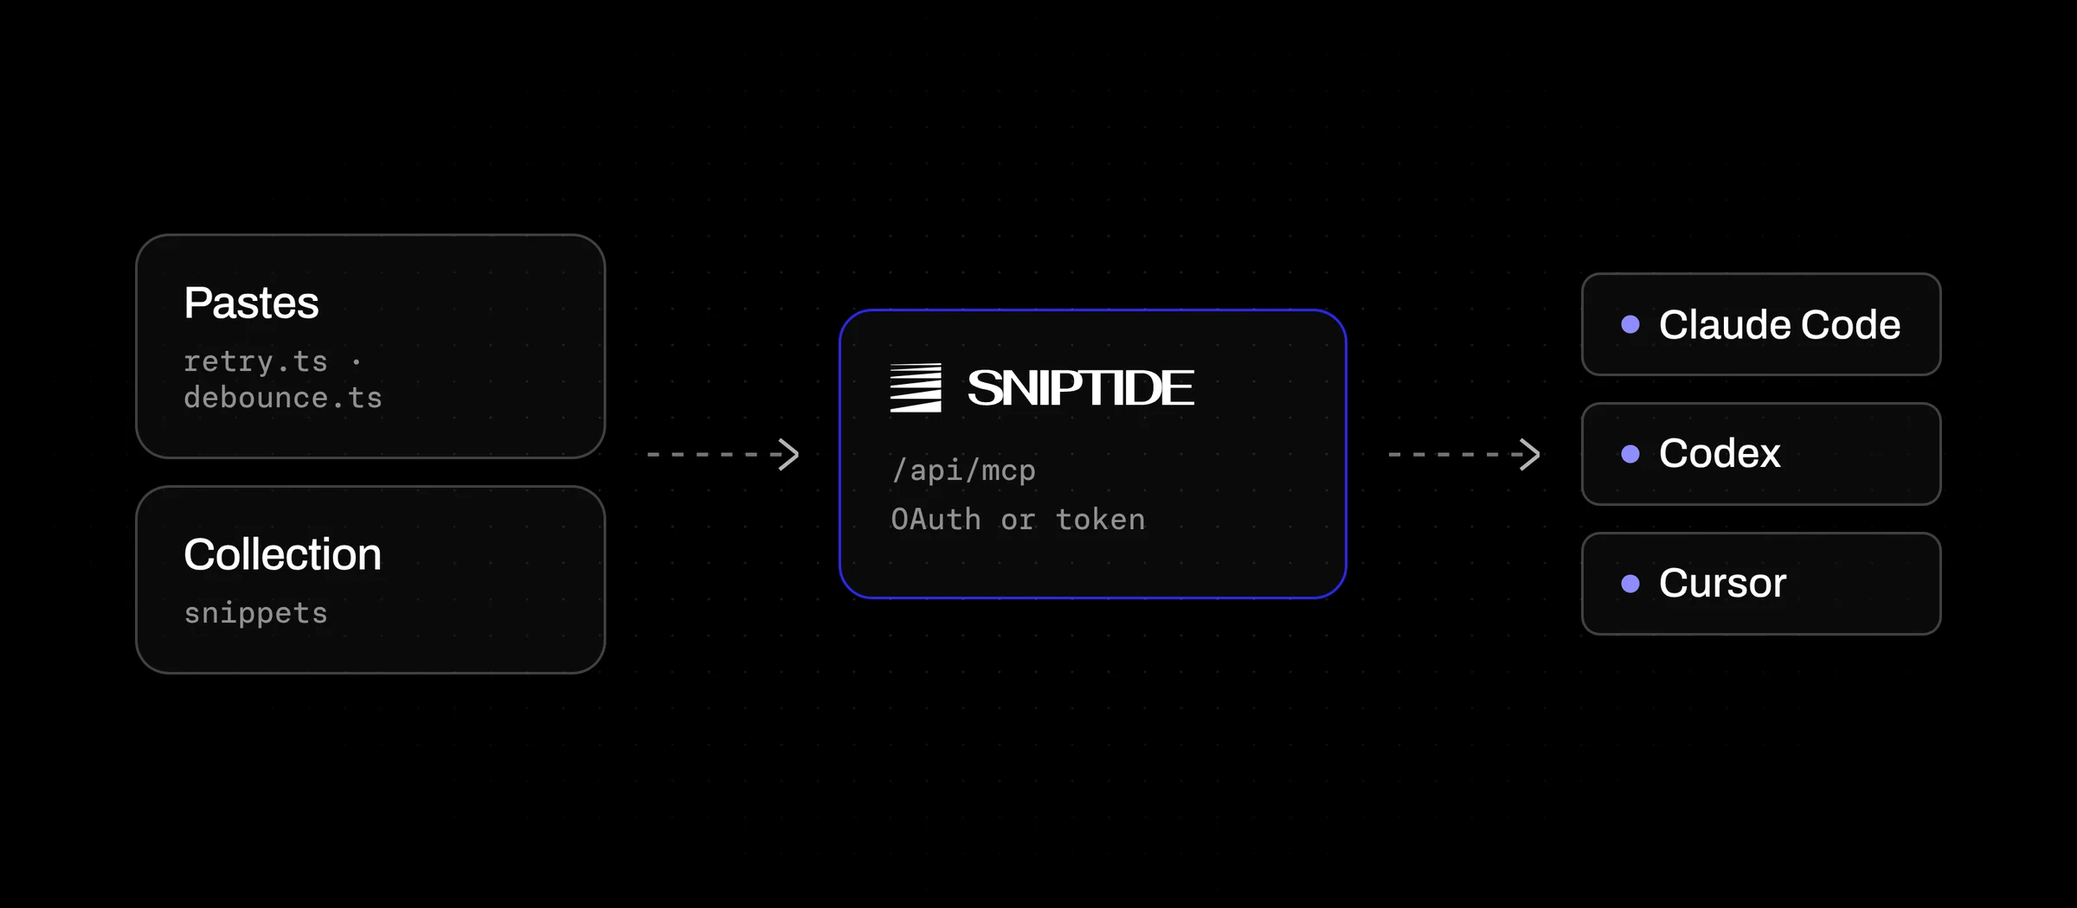
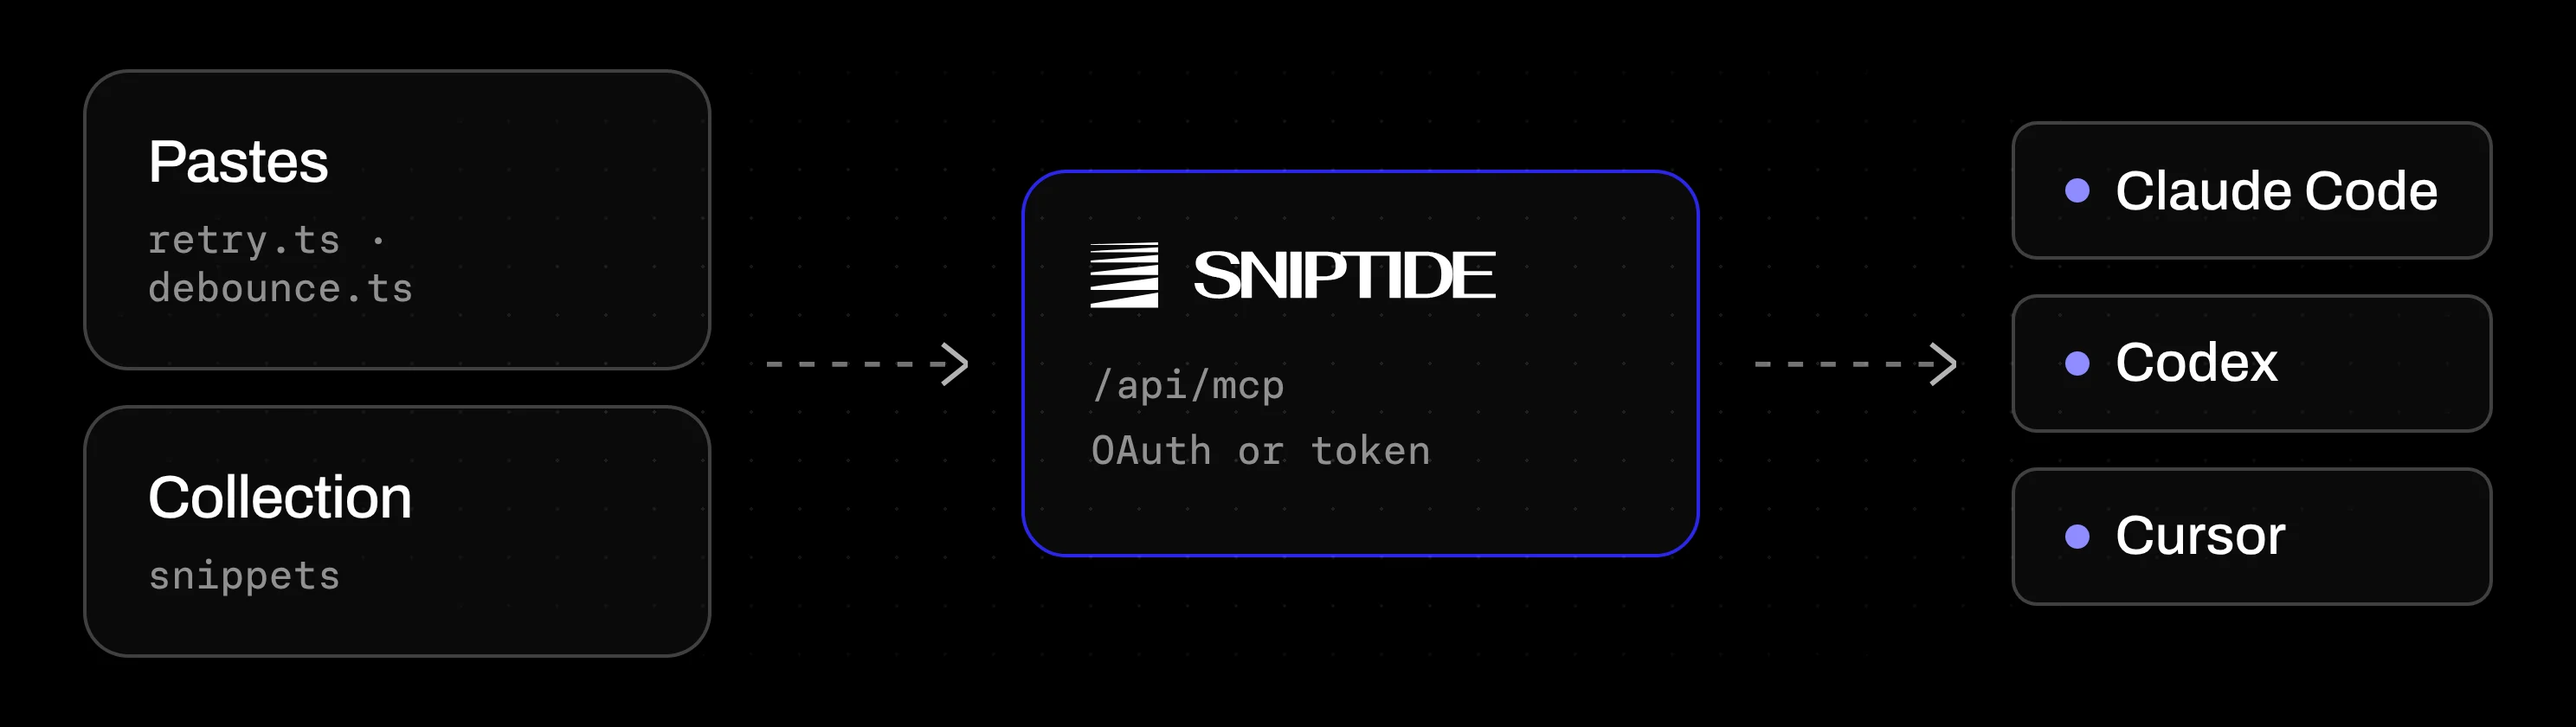
feat(blog): illustrated cards, full-height featured cover, inline CTA
Cards show the cover illustration, the featured cover fills its panel
from the top, the comparison table clears the TOC, the feature grid uses
theme colours, infographics are cropped tight, and the comparison post
gets an inline CTA and its own Sniptide entry. Drops the Gist import row.

Claude-Session: https://claude.ai/code/session_013C3XqLRQcNeK59rfu3kpP3

diff --git a/components/blog/post-list.tsx b/components/blog/post-list.tsx
@@ -72,17 +72,18 @@ function Picture({
   )
 }
 
-// The one big post at the top of the index. The text sits on the left, and the cover (or the share picture) leans in from the lower right in a frame that bleeds off the
-// panel's edges. On phones the picture follows the text.
+// The one big post at the top of the index. The text sits on the left, and the cover (or the share
+// picture) fills the right side from the top edge to the bottom. On phones the picture follows the
+// text.
 export function FeaturedPost({ post }: { post: ListPost }) {
   const author = postAuthor(post)
   return (
     <article className="group relative overflow-hidden rounded-lg border bg-sidebar transition-colors hover:border-foreground/20">
-      <div className="grid gap-10 pt-8 md:pt-12 lg:grid-cols-[minmax(0,5fr)_minmax(0,7fr)] lg:gap-12 lg:pt-14">
-        <div className="flex min-w-0 flex-col gap-8 px-6 md:px-12 lg:pr-0 lg:pb-14">
+      <div className="grid lg:grid-cols-[minmax(0,5fr)_minmax(0,7fr)]">
+        <div className="flex min-w-0 flex-col gap-8 px-6 py-8 md:px-12 md:py-12 lg:py-14">
           <div className="flex flex-col gap-5">
             <CategoryDate post={post} />
-            <h2 className="font-heading text-[32px] leading-[38px] font-medium tracking-[-0.03em] text-balance md:text-5xl md:leading-[52px]">
+            <h2 className="font-heading text-[28px] leading-[34px] font-medium tracking-[-0.03em] text-balance md:text-[40px] md:leading-[46px]">
               <a
                 href={postPath(post.slug)}
                 className={`${coverLink} group-hover:text-link focus-visible:text-link`}
@@ -107,35 +108,31 @@ export function FeaturedPost({ post }: { post: ListPost }) {
             <span>{post.minutes} min read</span>
           </p>
         </div>
-        <div className="min-w-0 self-end pl-6 md:pl-12 lg:pl-0">
-          {/* A cover is drawn for this frame and crops from its top-left corner. The share picture
-              is a finished 1200x630 card, so the frame takes its shape and nothing is cut off. */}
-          <div
-            className={`relative overflow-hidden rounded-tl-lg border-t border-l bg-background transition-transform duration-300 ease-out group-hover:-translate-y-1 motion-reduce:transition-none ${
-              post.cover ? "aspect-[16/10]" : "aspect-[1200/630]"
-            }`}
-          >
-            <Picture
-              src={post.cover ?? postImage(post)}
-              darkSrc={post.cover ? post.coverDark : undefined}
-              sizes="(min-width: 1024px) 60vw, 100vw"
-              priority
-              className={post.cover ? "object-cover object-left-top" : "object-cover"}
-            />
-          </div>
+        {/* The frame runs the full height of the panel on wide screens and keeps the picture's shape
+            on phones. A cover is centered, and the share picture is a finished card. */}
+        <div className="relative aspect-[16/10] min-w-0 overflow-hidden border-t bg-background lg:aspect-auto lg:min-h-[26rem] lg:border-t-0 lg:border-l">
+          <Picture
+            src={post.cover ?? postImage(post)}
+            darkSrc={post.cover ? post.coverDark : undefined}
+            sizes="(min-width: 1024px) 60vw, 100vw"
+            priority
+            className="object-cover transition-transform duration-500 ease-out group-hover:scale-[1.02] motion-reduce:transition-none"
+          />
         </div>
       </div>
     </article>
   )
 }
 
-// Every other post: its share picture, the category and date, the title and its description.
+// Every other post: its cover illustration (or the share picture when it has none), the category and
+// date, the title and its description.
 function PostCard({ post }: { post: ListPost }) {
   return (
     <li className="group relative flex min-w-0 flex-col gap-4">
-      <div className="relative aspect-[1200/630] overflow-hidden rounded-lg border bg-sidebar transition-colors group-hover:border-foreground/20">
+      <div className="relative aspect-[16/9] overflow-hidden rounded-lg border bg-sidebar transition-colors group-hover:border-foreground/20">
         <Picture
-          src={postImage(post)}
+          src={post.cover ?? postImage(post)}
+          darkSrc={post.cover ? post.coverDark : undefined}
           sizes="(min-width: 1024px) 400px, (min-width: 640px) 50vw, 100vw"
           className="object-cover"
         />

diff --git a/components/blog/comparison.tsx b/components/blog/comparison.tsx
@@ -1,5 +1,6 @@
 import { CheckIcon, MinusIcon } from "lucide-react"
 import type { ReactNode } from "react"
+import { primaryButton, secondaryButton } from "@/components/blog/buttons"
 
 // A feature-by-product comparison for posts that compare tools. The post writes it as a plain
 // Markdown table inside <Comparison>, so the Markdown twin and agents read an ordinary table:
@@ -30,7 +31,7 @@ export function Comparison({
 }) {
   return (
     <figure
-      className="blog-comparison lg:-mx-16"
+      className="blog-comparison lg:-mr-12 lg:-ml-16"
       data-highlight={highlight ? highlight + 1 : undefined}
     >
       {children}
@@ -90,5 +91,51 @@ export function ComparisonCell({ children }: { children: ReactNode }) {
 //
 // The styles live under .blog-feature-grid in app/globals.css.
 export function FeatureGrid({ children }: { children: ReactNode }) {
-  return <div className="blog-feature-grid lg:-mx-16">{children}</div>
+  return <div className="blog-feature-grid lg:-mr-12 lg:-ml-16">{children}</div>
+}
+
+// A call to action inside a post, placed where the reader has enough context to act: a title, one
+// line on what to try, a primary link and an optional secondary one. Its props are plain strings,
+// so the Markdown twin still reads as a sentence and two links.
+export function InlineCta({
+  title,
+  description,
+  href,
+  label,
+  secondaryHref,
+  secondaryLabel,
+}: {
+  title: string
+  description: string
+  href: string
+  label: string
+  secondaryHref?: string
+  secondaryLabel?: string
+}) {
+  return (
+    <aside className="not-prose relative my-8 overflow-hidden rounded-lg border bg-card px-5 py-5 md:px-6">
+      <div
+        aria-hidden="true"
+        className="pointer-events-none absolute inset-0 bg-[radial-gradient(circle_at_100%_0%,color-mix(in_oklab,var(--link)_14%,transparent),transparent_55%)]"
+      />
+      <div className="relative flex flex-col gap-4 sm:flex-row sm:items-center sm:justify-between sm:gap-6">
+        <div className="flex min-w-0 flex-col gap-1">
+          <p className="font-heading text-lg leading-6 font-medium tracking-[-0.02em]">{title}</p>
+          <p className="text-[0.9375rem] leading-6 text-pretty text-muted-foreground">
+            {description}
+          </p>
+        </div>
+        <div className="flex shrink-0 flex-wrap gap-2">
+          <a href={href} className={primaryButton}>
+            {label}
+          </a>
+          {secondaryHref && secondaryLabel && (
+            <a href={secondaryHref} className={secondaryButton}>
+              {secondaryLabel}
+            </a>
+          )}
+        </div>
+      </div>
+    </aside>
+  )
 }

diff --git a/app/globals.css b/app/globals.css
@@ -420,7 +420,7 @@ p {
 }
 
 .blog-prose .blog-comparison :is(th, td):first-child {
-  width: 9.5rem;
+  width: 8.5rem;
   padding-inline-start: 0.875rem;
   font-weight: 400;
 }
@@ -517,16 +517,11 @@ p {
   background: linear-gradient(90deg, var(--link) 50%, transparent 50%);
 }
 
-/* The FeatureGrid component: a bold line and a list per card, laid out as columns of black panels
-   like the Open Graph card, in both themes. */
+/* The FeatureGrid component: a bold line and a list per card, laid out as three cards side by side
+   on wide screens and stacked on phones. Each card is a heading cell above a list cell. */
 .blog-prose .blog-feature-grid {
   display: grid;
-  gap: 0.75rem;
   margin-block: 2rem;
-  padding: 0.75rem;
-  border-radius: var(--radius);
-  background-color: #000;
-  color: #fff;
 }
 
 @media (min-width: 768px) {
@@ -534,35 +529,36 @@ p {
     grid-template-columns: repeat(3, minmax(0, 1fr));
     grid-template-rows: auto auto;
     grid-auto-flow: column;
-    row-gap: 0;
+    column-gap: 0.75rem;
   }
 }
 
 .blog-prose .blog-feature-grid > p {
   margin: 0;
   padding: 1.25rem 1.25rem 0.25rem;
-  border: 1px solid rgb(255 255 255 / 0.18);
+  border: 1px solid var(--border);
   border-bottom: 0;
   border-radius: 0.75rem 0.75rem 0 0;
-  background-color: #0b0b0b;
+  background-color: var(--card);
   font-family: var(--font-heading);
   font-size: 1.25rem;
+  line-height: 1.75rem;
   letter-spacing: -0.02em;
 }
 
 /* biome-ignore lint/style/noDescendingSpecificity: the comparison's group-row rule targets other elements. */
 .blog-prose .blog-feature-grid.blog-feature-grid > p > strong {
   font-weight: 500;
-  color: #fff;
+  color: var(--foreground);
 }
 
 .blog-prose .blog-feature-grid > ul {
   margin: 0 0 0.75rem;
   padding: 0.5rem 1.25rem 1.25rem;
-  border: 1px solid rgb(255 255 255 / 0.18);
+  border: 1px solid var(--border);
   border-top: 0;
   border-radius: 0 0 0.75rem 0.75rem;
-  background-color: #0b0b0b;
+  background-color: var(--card);
   list-style: none;
 }
 
@@ -579,7 +575,6 @@ p {
   font-size: 0.9375rem;
   line-height: 1.375rem;
   text-wrap: pretty;
-  color: rgb(255 255 255 / 0.92);
 }
 
 .blog-prose .blog-feature-grid.blog-feature-grid ul > li::marker {
@@ -595,8 +590,8 @@ p {
   height: 0.5rem;
   border-radius: 0;
   background: none;
-  border-bottom: 2px solid #8f8cff;
-  border-left: 2px solid #8f8cff;
+  border-bottom: 2px solid var(--link);
+  border-left: 2px solid var(--link);
   transform: rotate(-45deg);
 }
 

diff --git a/components/blog/mdx.tsx b/components/blog/mdx.tsx
@@ -2,7 +2,7 @@ import { Kbd } from "@sniptide/ui/components/kbd"
 import type { MDXComponents } from "mdx/types"
 import type { ComponentProps } from "react"
 import { CodeBlock } from "@/components/blog/code-block"
-import { Comparison, ComparisonCell, FeatureGrid } from "@/components/blog/comparison"
+import { Comparison, ComparisonCell, FeatureGrid, InlineCta } from "@/components/blog/comparison"
 import {
   Callout,
   Figure,
@@ -68,6 +68,7 @@ export const blogMdxComponents = {
   Callout,
   Comparison,
   FeatureGrid,
+  InlineCta,
   Figure,
   File,
   Files,

diff --git a/README.md b/README.md
@@ -131,7 +131,7 @@ draft: true # optional
   code with a `title`. `Comparison` (`components/blog/comparison.tsx`) wraps a plain Markdown table
   and draws it as a feature-by-product comparison: bold rows become groups, `✓` and `–` cells become
   markers, `~note` marks partial support and `highlight` tints one column. `FeatureGrid` lays out
-  bold lines with lists as dark feature cards. Both stay plain Markdown in the `.md` twin, so agents
+  bold lines with lists as feature cards, and `InlineCta` places a call to action inside a post. Both stay plain Markdown in the `.md` twin, so agents
   read them. Text sets at 17px on a 27px line (16px on 26px on phones) in a 35rem
   column, about 68 characters to a line (`.blog-prose` in `app/globals.css`). Inter loads its
   optical size axis for the whole site. Table cells grow with their text up to 18rem, and wide tables scroll
@@ -208,7 +208,7 @@ draft: true # optional
   code with a `title`. `Comparison` (`components/blog/comparison.tsx`) wraps a plain Markdown table
   and draws it as a feature-by-product comparison: bold rows become groups, `✓` and `–` cells become
   markers, `~note` marks partial support and `highlight` tints one column. `FeatureGrid` lays out
-  bold lines with lists as dark feature cards. Both stay plain Markdown in the `.md` twin, so agents
+  bold lines with lists as feature cards, and `InlineCta` places a call to action inside a post. Both stay plain Markdown in the `.md` twin, so agents
   read them. Text sets at 17px on a 27px line (16px on 26px on phones) in a 35rem
   column, about 68 characters to a line (`.blog-prose` in `app/globals.css`). Inter loads its
   optical size axis for the whole site. Table cells grow with their text up to 18rem, and wide tables scroll
